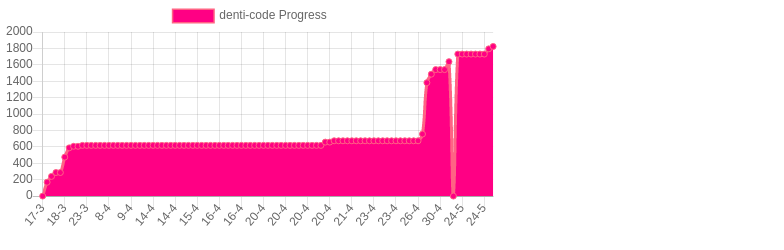
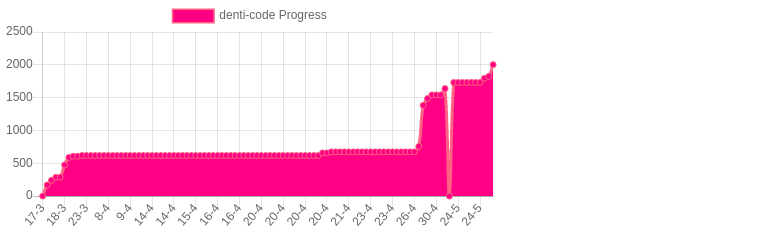
denti-code: react code

diff --git a/total.html b/total.html
@@ -9,7 +9,7 @@
         <script src="https://cdn.jsdelivr.net/npm/chart.js@2.8.0"></script>
         <script>
           var ctx = document.getElementById("total").getContext("2d");
-          const goLabelsDates = ["2021-02-27T01:37:43.112Z","2021-02-27T01:38:01.628Z","2021-03-01T13:41:18.753Z","2021-03-01T14:53:41.991Z","2021-03-01T15:08:00.851Z","2021-03-01T15:09:10.635Z","2021-03-01T15:22:55.385Z","2021-03-03T15:31:41.151Z","2021-03-05T14:02:13.446Z","2021-03-10T14:50:13.297Z","2021-03-11T01:54:03.424Z","2021-03-11T15:32:47.647Z","2021-03-11T16:01:51.191Z","2021-03-12T00:36:04.646Z","2021-03-13T00:14:58.179Z","2021-03-16T05:30:04.043Z","2021-03-17T21:17:52.181Z","2021-03-18T03:42:56.998Z","2021-03-18T03:44:29.834Z","2021-03-18T03:45:35.160Z","2021-03-18T03:45:54.668Z","2021-03-18T03:48:46.007Z","2021-03-18T05:10:54.427Z","2021-03-18T05:44:13.724Z","2021-03-18T05:56:11.032Z","2021-03-18T22:11:28.339Z","2021-03-19T11:28:55.383Z","2021-03-22T13:51:43.977Z","2021-03-23T01:52:09.452Z","2021-03-23T15:45:53.765Z","2021-03-24T01:46:02.104Z","2021-03-30T10:56:50.711Z","2021-04-01T15:03:17.764Z","2021-04-01T23:15:02.096Z","2021-04-07T19:21:55.040Z","2021-04-08T15:21:14.479Z","2021-04-09T23:17:58.037Z","2021-04-09T23:32:26.341Z","2021-04-09T23:34:42.049Z","2021-04-09T23:36:18.092Z","2021-04-10T01:45:40.218Z","2021-04-12T15:41:26.676Z","2021-04-14T02:00:41.039Z","2021-04-14T20:02:44.141Z","2021-04-14T21:14:15.821Z","2021-04-14T22:06:37.573Z","2021-04-14T22:42:14.693Z","2021-04-14T23:10:13.243Z","2021-04-14T23:22:54.824Z","2021-04-14T23:49:37.009Z","2021-04-15T02:28:51.974Z","2021-04-15T14:33:50.618Z","2021-04-15T15:09:11.104Z","2021-04-15T20:35:30.580Z","2021-04-16T00:04:33.158Z","2021-04-16T01:36:06.294Z","2021-04-16T01:53:35.992Z","2021-04-16T02:00:15.474Z","2021-04-16T16:08:40.977Z","2021-04-16T16:27:06.953Z","2021-04-16T16:59:30.526Z","2021-04-16T17:00:53.737Z","2021-04-16T23:14:36.283Z","2021-04-17T00:39:16.890Z","2021-04-17T01:11:09.986Z","2021-04-17T01:32:30.011Z","2021-04-17T01:44:22.446Z","2021-04-17T01:44:33.941Z","2021-04-17T02:35:55.774Z","2021-04-19T15:41:31.091Z","2021-04-20T15:32:32.239Z","2021-04-20T15:33:16.014Z","2021-04-20T15:36:11.438Z","2021-04-20T15:38:44.606Z","2021-04-20T15:41:50.350Z","2021-04-20T15:44:34.448Z","2021-04-20T15:46:49.295Z","2021-04-20T15:47:24.048Z","2021-04-20T15:56:22.046Z","2021-04-20T16:00:02.540Z","2021-04-20T16:01:15.511Z","2021-04-20T23:19:23.938Z","2021-04-21T00:40:54.443Z","2021-04-21T00:47:22.662Z","2021-04-21T02:01:09.006Z","2021-04-21T02:19:22.734Z","2021-04-21T15:53:36.038Z","2021-04-21T16:21:45.704Z","2021-04-21T16:26:32.790Z","2021-04-21T16:40:24.916Z","2021-04-21T16:43:40.235Z","2021-04-21T16:43:59.719Z","2021-04-21T16:44:40.304Z","2021-04-21T16:46:13.191Z","2021-04-21T16:48:41.898Z","2021-04-21T16:49:08.753Z","2021-04-21T16:50:32.397Z","2021-04-21T16:51:58.778Z","2021-04-23T00:49:32.826Z","2021-04-23T15:03:06.320Z","2021-04-23T15:04:13.039Z","2021-04-23T15:05:25.923Z","2021-04-23T15:11:04.285Z","2021-04-23T15:11:38.826Z","2021-04-23T15:12:05.618Z","2021-04-23T15:12:32.508Z","2021-04-23T15:13:17.058Z","2021-04-23T17:08:27.046Z","2021-04-23T18:02:30.357Z","2021-04-23T22:58:36.946Z","2021-04-23T23:00:26.027Z","2021-04-23T23:52:58.438Z","2021-04-24T01:12:51.525Z","2021-04-24T02:01:46.612Z","2021-04-26T12:46:47.336Z","2021-04-26T13:13:50.946Z","2021-04-26T13:16:04.473Z","2021-04-27T00:11:42.582Z","2021-04-30T03:26:37.101Z","2021-04-30T04:33:42.472Z","2021-04-30T05:15:42.646Z","2021-04-30T14:31:10.927Z","2021-05-04T01:51:49.907Z","2021-05-21T00:30:21.777Z","2021-05-24T15:07:09.579Z","2021-05-24T15:08:05.658Z","2021-05-24T15:22:20.903Z","2021-05-24T15:33:34.626Z","2021-05-24T15:46:16.101Z","2021-05-24T15:48:12.171Z","2021-05-24T15:53:54.498Z","2021-05-24T15:56:18.488Z","2021-05-28T22:50:32.914Z","2021-06-02T17:58:30.866Z","2021-07-01T05:04:25.826Z","2021-07-01T05:05:33.079Z","2021-09-03T16:56:54.023Z","2021-09-23T00:10:19.737Z","2021-09-23T00:54:30.987Z","2021-09-25T00:13:33.106Z","2021-09-25T00:56:09.874Z","2021-09-29T20:37:10.460Z","2021-09-29T20:39:45.107Z","2021-09-29T20:45:08.406Z","2021-09-29T20:45:42.995Z","2021-09-29T20:51:54.166Z","2021-09-29T21:04:45.487Z","2021-09-29T21:22:49.580Z","2021-09-29T21:23:34.860Z","2021-09-29T21:24:52.804Z","2021-09-29T21:25:12.938Z","2021-09-29T21:31:41.466Z","2021-09-29T21:32:02.856Z","2021-09-29T21:32:15.096Z","2021-09-29T21:37:01.273Z","2021-09-29T21:39:46.109Z","2021-09-29T21:40:23.862Z","2021-09-29T21:41:38.242Z","2021-09-29T21:45:36.053Z","2021-09-29T21:48:31.229Z","2021-09-29T21:49:46.414Z","2021-09-29T21:50:16.628Z","2021-09-29T21:52:23.035Z","2021-09-29T21:58:46.153Z","2021-09-29T21:59:06.075Z","2021-09-29T22:09:34.545Z","2021-09-29T22:24:59.487Z","2021-09-29T22:39:38.616Z","2021-09-29T23:07:40.178Z","2021-10-01T13:21:48.217Z","2021-10-01T14:11:47.682Z","2021-10-05T00:24:42.303Z","2021-10-05T14:36:34.233Z","2021-10-05T15:30:47.628Z","2021-10-13T14:16:32.194Z","2021-10-14T20:31:14.540Z","2021-10-15T02:04:50.667Z",];
+          const goLabelsDates = ["2021-02-27T01:37:43.112Z","2021-02-27T01:38:01.628Z","2021-03-01T13:41:18.753Z","2021-03-01T14:53:41.991Z","2021-03-01T15:08:00.851Z","2021-03-01T15:09:10.635Z","2021-03-01T15:22:55.385Z","2021-03-03T15:31:41.151Z","2021-03-05T14:02:13.446Z","2021-03-10T14:50:13.297Z","2021-03-11T01:54:03.424Z","2021-03-11T15:32:47.647Z","2021-03-11T16:01:51.191Z","2021-03-12T00:36:04.646Z","2021-03-13T00:14:58.179Z","2021-03-16T05:30:04.043Z","2021-03-17T21:17:52.181Z","2021-03-18T03:42:56.998Z","2021-03-18T03:44:29.834Z","2021-03-18T03:45:35.160Z","2021-03-18T03:45:54.668Z","2021-03-18T03:48:46.007Z","2021-03-18T05:10:54.427Z","2021-03-18T05:44:13.724Z","2021-03-18T05:56:11.032Z","2021-03-18T22:11:28.339Z","2021-03-19T11:28:55.383Z","2021-03-22T13:51:43.977Z","2021-03-23T01:52:09.452Z","2021-03-23T15:45:53.765Z","2021-03-24T01:46:02.104Z","2021-03-30T10:56:50.711Z","2021-04-01T15:03:17.764Z","2021-04-01T23:15:02.096Z","2021-04-07T19:21:55.040Z","2021-04-08T15:21:14.479Z","2021-04-09T23:17:58.037Z","2021-04-09T23:32:26.341Z","2021-04-09T23:34:42.049Z","2021-04-09T23:36:18.092Z","2021-04-10T01:45:40.218Z","2021-04-12T15:41:26.676Z","2021-04-14T02:00:41.039Z","2021-04-14T20:02:44.141Z","2021-04-14T21:14:15.821Z","2021-04-14T22:06:37.573Z","2021-04-14T22:42:14.693Z","2021-04-14T23:10:13.243Z","2021-04-14T23:22:54.824Z","2021-04-14T23:49:37.009Z","2021-04-15T02:28:51.974Z","2021-04-15T14:33:50.618Z","2021-04-15T15:09:11.104Z","2021-04-15T20:35:30.580Z","2021-04-16T00:04:33.158Z","2021-04-16T01:36:06.294Z","2021-04-16T01:53:35.992Z","2021-04-16T02:00:15.474Z","2021-04-16T16:08:40.977Z","2021-04-16T16:27:06.953Z","2021-04-16T16:59:30.526Z","2021-04-16T17:00:53.737Z","2021-04-16T23:14:36.283Z","2021-04-17T00:39:16.890Z","2021-04-17T01:11:09.986Z","2021-04-17T01:32:30.011Z","2021-04-17T01:44:22.446Z","2021-04-17T01:44:33.941Z","2021-04-17T02:35:55.774Z","2021-04-19T15:41:31.091Z","2021-04-20T15:32:32.239Z","2021-04-20T15:33:16.014Z","2021-04-20T15:36:11.438Z","2021-04-20T15:38:44.606Z","2021-04-20T15:41:50.350Z","2021-04-20T15:44:34.448Z","2021-04-20T15:46:49.295Z","2021-04-20T15:47:24.048Z","2021-04-20T15:56:22.046Z","2021-04-20T16:00:02.540Z","2021-04-20T16:01:15.511Z","2021-04-20T23:19:23.938Z","2021-04-21T00:40:54.443Z","2021-04-21T00:47:22.662Z","2021-04-21T02:01:09.006Z","2021-04-21T02:19:22.734Z","2021-04-21T15:53:36.038Z","2021-04-21T16:21:45.704Z","2021-04-21T16:26:32.790Z","2021-04-21T16:40:24.916Z","2021-04-21T16:43:40.235Z","2021-04-21T16:43:59.719Z","2021-04-21T16:44:40.304Z","2021-04-21T16:46:13.191Z","2021-04-21T16:48:41.898Z","2021-04-21T16:49:08.753Z","2021-04-21T16:50:32.397Z","2021-04-21T16:51:58.778Z","2021-04-23T00:49:32.826Z","2021-04-23T15:03:06.320Z","2021-04-23T15:04:13.039Z","2021-04-23T15:05:25.923Z","2021-04-23T15:11:04.285Z","2021-04-23T15:11:38.826Z","2021-04-23T15:12:05.618Z","2021-04-23T15:12:32.508Z","2021-04-23T15:13:17.058Z","2021-04-23T17:08:27.046Z","2021-04-23T18:02:30.357Z","2021-04-23T22:58:36.946Z","2021-04-23T23:00:26.027Z","2021-04-23T23:52:58.438Z","2021-04-24T01:12:51.525Z","2021-04-24T02:01:46.612Z","2021-04-26T12:46:47.336Z","2021-04-26T13:13:50.946Z","2021-04-26T13:16:04.473Z","2021-04-27T00:11:42.582Z","2021-04-30T03:26:37.101Z","2021-04-30T04:33:42.472Z","2021-04-30T05:15:42.646Z","2021-04-30T14:31:10.927Z","2021-05-04T01:51:49.907Z","2021-05-21T00:30:21.777Z","2021-05-24T15:07:09.579Z","2021-05-24T15:08:05.658Z","2021-05-24T15:22:20.903Z","2021-05-24T15:33:34.626Z","2021-05-24T15:46:16.101Z","2021-05-24T15:48:12.171Z","2021-05-24T15:53:54.498Z","2021-05-24T15:56:18.488Z","2021-05-28T22:50:32.914Z","2021-06-02T17:58:30.866Z","2021-07-01T05:04:25.826Z","2021-07-01T05:05:33.079Z","2021-09-03T16:56:54.023Z","2021-09-23T00:10:19.737Z","2021-09-23T00:54:30.987Z","2021-09-25T00:13:33.106Z","2021-09-25T00:56:09.874Z","2021-09-29T20:37:10.460Z","2021-09-29T20:39:45.107Z","2021-09-29T20:45:08.406Z","2021-09-29T20:45:42.995Z","2021-09-29T20:51:54.166Z","2021-09-29T21:04:45.487Z","2021-09-29T21:22:49.580Z","2021-09-29T21:23:34.860Z","2021-09-29T21:24:52.804Z","2021-09-29T21:25:12.938Z","2021-09-29T21:31:41.466Z","2021-09-29T21:32:02.856Z","2021-09-29T21:32:15.096Z","2021-09-29T21:37:01.273Z","2021-09-29T21:39:46.109Z","2021-09-29T21:40:23.862Z","2021-09-29T21:41:38.242Z","2021-09-29T21:45:36.053Z","2021-09-29T21:48:31.229Z","2021-09-29T21:49:46.414Z","2021-09-29T21:50:16.628Z","2021-09-29T21:52:23.035Z","2021-09-29T21:58:46.153Z","2021-09-29T21:59:06.075Z","2021-09-29T22:09:34.545Z","2021-09-29T22:24:59.487Z","2021-09-29T22:39:38.616Z","2021-09-29T23:07:40.178Z","2021-10-01T13:21:48.217Z","2021-10-01T14:11:47.682Z","2021-10-05T00:24:42.303Z","2021-10-05T14:36:34.233Z","2021-10-05T15:30:47.628Z","2021-10-13T14:16:32.194Z","2021-10-14T20:31:14.540Z","2021-10-15T02:04:50.667Z","2021-10-22T22:01:46.214Z",];
           var chart = new Chart(ctx, {
             type: 'line',
             data: {
@@ -18,7 +18,7 @@
                 label: 'total Progress',
                 backgroundColor: 'rgb(255, 0, 132)',
                 borderColor: 'rgb(255, 99, 132)',
-                data: [7975,7975,8307,8526,8526,8527,8573,9171,9358,9751,9908,10232,10231,10643,10911,11353,12576,12666,0,0,169,12835,12906,12953,12953,13141,13254,13354,13406,13417,13568,13708,13845,14886,15140,15267,15766,15777,15777,15777,16211,16345,17062,17247,17324,17464,17697,17849,17916,18002,18002,18202,18292,18515,18590,18744,18837,18876,19030,19086,19114,19143,19378,19465,19607,19714,19782,19782,19791,20220,20257,20257,20257,20257,20257,20257,20257,20257,20257,20257,20257,21179,21238,21279,21319,21319,21430,21506,21543,65995,0,44452,44452,44452,20233,20233,1629,23172,23326,23693,23693,23693,23693,23693,23693,23693,23693,23693,23693,23693,23693,23905,24023,24262,24275,24376,24376,24452,25078,25182,25238,25232,25233,25334,23696,25427,25453,25466,25491,11565,5707,5707,4421,4535,4535,3678,3678,3678,5861,5318,5422,5473,12667,12667,12667,12667,12667,12667,12667,12667,12667,12667,12667,12667,12667,12667,12667,12667,12667,12667,12658,12658,12657,12657,12657,12657,12683,12736,12779,12888,2619,2775,9772,9922,10674,1795,1824,]
+                data: [7975,7975,8307,8526,8526,8527,8573,9171,9358,9751,9908,10232,10231,10643,10911,11353,12576,12666,0,0,169,12835,12906,12953,12953,13141,13254,13354,13406,13417,13568,13708,13845,14886,15140,15267,15766,15777,15777,15777,16211,16345,17062,17247,17324,17464,17697,17849,17916,18002,18002,18202,18292,18515,18590,18744,18837,18876,19030,19086,19114,19143,19378,19465,19607,19714,19782,19782,19791,20220,20257,20257,20257,20257,20257,20257,20257,20257,20257,20257,20257,21179,21238,21279,21319,21319,21430,21506,21543,65995,0,44452,44452,44452,20233,20233,1629,23172,23326,23693,23693,23693,23693,23693,23693,23693,23693,23693,23693,23693,23693,23905,24023,24262,24275,24376,24376,24452,25078,25182,25238,25232,25233,25334,23696,25427,25453,25466,25491,11565,5707,5707,4421,4535,4535,3678,3678,3678,5861,5318,5422,5473,12667,12667,12667,12667,12667,12667,12667,12667,12667,12667,12667,12667,12667,12667,12667,12667,12667,12667,12658,12658,12657,12657,12657,12657,12683,12736,12779,12888,2619,2775,9772,9922,10674,1795,1824,2002,]
               }]
             },
           });

diff --git a/denti-code.html b/denti-code.html
@@ -9,7 +9,7 @@
         <script src="https://cdn.jsdelivr.net/npm/chart.js@2.8.0"></script>
         <script>
           var ctx = document.getElementById("denti-code").getContext("2d");
-          const goLabelsDates = ["2021-03-18T03:42:56.996Z","2021-03-18T03:48:46.006Z","2021-03-18T05:10:54.426Z","2021-03-18T05:44:13.723Z","2021-03-18T05:56:11.031Z","2021-03-18T22:11:28.338Z","2021-03-19T11:28:55.381Z","2021-03-22T13:51:43.975Z","2021-03-23T01:52:09.450Z","2021-03-23T15:45:53.764Z","2021-03-24T01:46:02.102Z","2021-03-30T10:56:50.709Z","2021-04-01T15:03:17.762Z","2021-04-01T23:15:02.094Z","2021-04-07T19:21:55.037Z","2021-04-08T15:21:14.477Z","2021-04-09T23:17:58.034Z","2021-04-09T23:32:26.338Z","2021-04-09T23:34:42.046Z","2021-04-09T23:36:18.090Z","2021-04-10T01:45:40.216Z","2021-04-12T15:41:26.675Z","2021-04-14T02:00:41.038Z","2021-04-14T20:02:44.139Z","2021-04-14T21:14:15.820Z","2021-04-14T22:06:37.572Z","2021-04-14T22:42:14.692Z","2021-04-14T23:10:13.242Z","2021-04-14T23:22:54.823Z","2021-04-14T23:49:37.008Z","2021-04-15T02:28:51.973Z","2021-04-15T14:33:50.618Z","2021-04-15T15:09:11.101Z","2021-04-15T20:35:30.578Z","2021-04-16T00:04:33.156Z","2021-04-16T01:36:06.292Z","2021-04-16T01:53:35.990Z","2021-04-16T02:00:15.472Z","2021-04-16T16:08:40.974Z","2021-04-16T16:27:06.951Z","2021-04-16T16:59:30.523Z","2021-04-16T17:00:53.732Z","2021-04-16T23:14:36.281Z","2021-04-17T00:39:16.887Z","2021-04-17T01:11:09.984Z","2021-04-17T01:32:30.007Z","2021-04-17T01:44:22.441Z","2021-04-17T01:44:33.939Z","2021-04-17T02:35:55.772Z","2021-04-19T15:41:31.089Z","2021-04-20T15:32:32.237Z","2021-04-20T15:33:16.012Z","2021-04-20T15:36:11.437Z","2021-04-20T15:38:44.604Z","2021-04-20T15:41:50.349Z","2021-04-20T15:44:34.447Z","2021-04-20T15:46:49.293Z","2021-04-20T15:47:24.046Z","2021-04-20T15:56:22.045Z","2021-04-20T16:00:02.538Z","2021-04-20T16:01:15.510Z","2021-04-20T23:19:23.936Z","2021-04-21T00:40:54.441Z","2021-04-21T00:47:22.661Z","2021-04-21T02:01:09.004Z","2021-04-21T02:19:22.733Z","2021-04-21T15:53:36.036Z","2021-04-21T16:21:45.702Z","2021-04-21T16:26:32.788Z","2021-04-21T16:40:24.915Z","2021-04-21T16:51:58.776Z","2021-04-23T00:49:32.825Z","2021-04-23T15:03:06.327Z","2021-04-23T15:04:13.043Z","2021-04-23T15:05:25.920Z","2021-04-23T15:13:17.062Z","2021-04-23T17:08:27.042Z","2021-04-23T18:02:30.351Z","2021-04-23T22:58:36.942Z","2021-04-23T23:00:26.024Z","2021-04-23T23:52:58.435Z","2021-04-24T01:12:51.523Z","2021-04-24T02:01:46.608Z","2021-04-26T12:46:47.335Z","2021-04-26T13:13:50.942Z","2021-04-26T13:16:04.469Z","2021-04-27T00:11:42.578Z","2021-04-30T03:26:37.095Z","2021-04-30T04:33:42.471Z","2021-04-30T05:15:42.643Z","2021-04-30T14:31:10.924Z","2021-05-04T01:51:49.904Z","2021-05-21T00:30:21.766Z","2021-05-24T15:07:09.569Z","2021-05-24T15:08:05.654Z","2021-05-24T15:22:20.898Z","2021-05-24T15:33:34.622Z","2021-05-24T15:46:16.098Z","2021-05-24T15:48:12.169Z","2021-05-24T15:53:54.497Z","2021-05-24T15:56:18.483Z","2021-10-14T20:31:14.535Z","2021-10-15T02:04:50.663Z",];
+          const goLabelsDates = ["2021-03-18T03:42:56.996Z","2021-03-18T03:48:46.006Z","2021-03-18T05:10:54.426Z","2021-03-18T05:44:13.723Z","2021-03-18T05:56:11.031Z","2021-03-18T22:11:28.338Z","2021-03-19T11:28:55.381Z","2021-03-22T13:51:43.975Z","2021-03-23T01:52:09.450Z","2021-03-23T15:45:53.764Z","2021-03-24T01:46:02.102Z","2021-03-30T10:56:50.709Z","2021-04-01T15:03:17.762Z","2021-04-01T23:15:02.094Z","2021-04-07T19:21:55.037Z","2021-04-08T15:21:14.477Z","2021-04-09T23:17:58.034Z","2021-04-09T23:32:26.338Z","2021-04-09T23:34:42.046Z","2021-04-09T23:36:18.090Z","2021-04-10T01:45:40.216Z","2021-04-12T15:41:26.675Z","2021-04-14T02:00:41.038Z","2021-04-14T20:02:44.139Z","2021-04-14T21:14:15.820Z","2021-04-14T22:06:37.572Z","2021-04-14T22:42:14.692Z","2021-04-14T23:10:13.242Z","2021-04-14T23:22:54.823Z","2021-04-14T23:49:37.008Z","2021-04-15T02:28:51.973Z","2021-04-15T14:33:50.618Z","2021-04-15T15:09:11.101Z","2021-04-15T20:35:30.578Z","2021-04-16T00:04:33.156Z","2021-04-16T01:36:06.292Z","2021-04-16T01:53:35.990Z","2021-04-16T02:00:15.472Z","2021-04-16T16:08:40.974Z","2021-04-16T16:27:06.951Z","2021-04-16T16:59:30.523Z","2021-04-16T17:00:53.732Z","2021-04-16T23:14:36.281Z","2021-04-17T00:39:16.887Z","2021-04-17T01:11:09.984Z","2021-04-17T01:32:30.007Z","2021-04-17T01:44:22.441Z","2021-04-17T01:44:33.939Z","2021-04-17T02:35:55.772Z","2021-04-19T15:41:31.089Z","2021-04-20T15:32:32.237Z","2021-04-20T15:33:16.012Z","2021-04-20T15:36:11.437Z","2021-04-20T15:38:44.604Z","2021-04-20T15:41:50.349Z","2021-04-20T15:44:34.447Z","2021-04-20T15:46:49.293Z","2021-04-20T15:47:24.046Z","2021-04-20T15:56:22.045Z","2021-04-20T16:00:02.538Z","2021-04-20T16:01:15.510Z","2021-04-20T23:19:23.936Z","2021-04-21T00:40:54.441Z","2021-04-21T00:47:22.661Z","2021-04-21T02:01:09.004Z","2021-04-21T02:19:22.733Z","2021-04-21T15:53:36.036Z","2021-04-21T16:21:45.702Z","2021-04-21T16:26:32.788Z","2021-04-21T16:40:24.915Z","2021-04-21T16:51:58.776Z","2021-04-23T00:49:32.825Z","2021-04-23T15:03:06.327Z","2021-04-23T15:04:13.043Z","2021-04-23T15:05:25.920Z","2021-04-23T15:13:17.062Z","2021-04-23T17:08:27.042Z","2021-04-23T18:02:30.351Z","2021-04-23T22:58:36.942Z","2021-04-23T23:00:26.024Z","2021-04-23T23:52:58.435Z","2021-04-24T01:12:51.523Z","2021-04-24T02:01:46.608Z","2021-04-26T12:46:47.335Z","2021-04-26T13:13:50.942Z","2021-04-26T13:16:04.469Z","2021-04-27T00:11:42.578Z","2021-04-30T03:26:37.095Z","2021-04-30T04:33:42.471Z","2021-04-30T05:15:42.643Z","2021-04-30T14:31:10.924Z","2021-05-04T01:51:49.904Z","2021-05-21T00:30:21.766Z","2021-05-24T15:07:09.569Z","2021-05-24T15:08:05.654Z","2021-05-24T15:22:20.898Z","2021-05-24T15:33:34.622Z","2021-05-24T15:46:16.098Z","2021-05-24T15:48:12.169Z","2021-05-24T15:53:54.497Z","2021-05-24T15:56:18.483Z","2021-10-14T20:31:14.535Z","2021-10-15T02:04:50.663Z","2021-10-22T22:01:46.203Z",];
           var chart = new Chart(ctx, {
             type: 'line',
             data: {
@@ -18,7 +18,7 @@
                 label: 'denti-code Progress',
                 backgroundColor: 'rgb(255, 0, 132)',
                 borderColor: 'rgb(255, 99, 132)',
-                data: [0,169,240,287,287,475,588,607,607,618,618,618,618,618,618,618,618,618,618,618,618,618,618,618,618,618,618,618,618,618,618,618,618,618,618,618,618,618,618,618,618,618,618,618,618,618,618,618,618,618,618,618,618,618,618,618,618,618,618,618,618,618,618,618,658,658,674,674,674,674,674,674,674,674,674,674,674,674,674,674,674,674,674,674,674,674,756,1382,1486,1542,1542,1542,1638,0,1731,1731,1731,1731,1731,1731,1731,1795,1824,]
+                data: [0,169,240,287,287,475,588,607,607,618,618,618,618,618,618,618,618,618,618,618,618,618,618,618,618,618,618,618,618,618,618,618,618,618,618,618,618,618,618,618,618,618,618,618,618,618,618,618,618,618,618,618,618,618,618,618,618,618,618,618,618,618,618,618,658,658,674,674,674,674,674,674,674,674,674,674,674,674,674,674,674,674,674,674,674,674,756,1382,1486,1542,1542,1542,1638,0,1731,1731,1731,1731,1731,1731,1731,1795,1824,2002,]
               }]
             },
           });

diff --git a/Readme.md b/Readme.md
@@ -1,11 +1,11 @@
 # All count
 |Language|Goal|Lines%|%|%|%|Subjects|
 |----------|-------|-------|--------|--------|--------|--------|
-|denti-code|2000|1824|91|![denti-code](https://raw.githubusercontent.com/kapit4n/l-10000-dev/master/denti-code.png)|react,, hooks|App, App, App, Nav, logo, reportWebVitals, requeriments, setupTests, Readme, app, breadcrumb, www, client files, doctors, patients, records, 20210323105958 create user, 20210427012229 create doctor, 20210428201240 create record, 20210430033210 create client file, clientfile, doctor, patient, record, client files, clients, doctors, patients, records, 20210323105420 demo user, node, main, main, main, index mount, index shallow, main, record popup|
-|TOTAL|1824|18.240%|
+|denti-code|10000|2002|20|![denti-code](https://raw.githubusercontent.com/kapit4n/l-10000-dev/master/denti-code.png)|react,, hooks|App, App, App, Nav, logo, reportWebVitals, requeriments, setupTests, Readme, app, breadcrumb, www, client files, doctors, patients, records, 20210323105958 create user, 20210427012229 create doctor, 20210428201240 create record, 20210430033210 create client file, clientfile, doctor, patient, record, client files, clients, doctors, patients, records, 20210323105420 demo user, node, main, main, main, main, record popup, index mount, index shallow, main, list|
+|TOTAL|2002|20.020%|
 10/02(0)
 
-10/03(1824)
+10/03(2002)
 
 
   # run it
@@ -28,4 +28,4 @@
   * Angular, React, Vue
   * Spring, Play
   * Scala, Java
-  , 2021-10-15T02:04:50.668Z
+  , 2021-10-22T22:01:46.214Z
